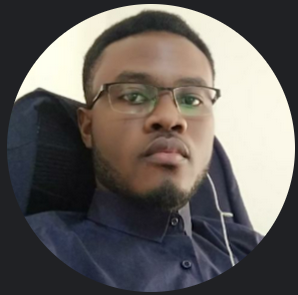
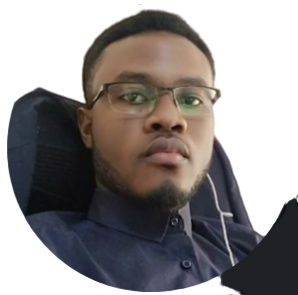
first commit

diff --git a/pages/contact.js b/pages/contact.js
@@ -56,20 +56,24 @@ export default function Contact() {
                                                 <Button
                                                     size="md"
                                                     height="48px"
-                                                    width="200px"
+                                                    width="170px"
                                                     variant="ghost"
-                                                    color="#DCE2FF"
-                                                    _hover={{ border: '2px solid #1C6FEB' }}
+                                                   
+                                                    _hover={{}}
+                                                 
+                                                 
                                                     leftIcon={<MdPhone color="#1970F1" size="20px" />}>
                                                    +225 27 22 23 77 89
                                                 </Button>
                                                 <Button
                                                     size="md"
                                                     height="48px"
-                                                    width="200px"
-                                                    variant="ghost"
+                                                    width="250px"
+                                                    variant="gost"
                                                     color="#DCE2FF"
-                                                    _hover={{ border: '2px solid #1C6FEB' }}
+                                                    _hover={{}}
+                                                    
+                                                 
                                                     leftIcon={<MdEmail color="#1970F1" size="20px" />}>
                                                     lauria.guenaman@rschain.net
                                                 </Button>
@@ -79,7 +83,7 @@ export default function Contact() {
                                                     width="200px"
                                                     variant="ghost"
                                                     color="#DCE2FF"
-                                                    _hover={{ border: '2px solid #1C6FEB' }}
+                                                    _hover={{}}
                                                     leftIcon={<MdLocationOn color="#1970F1" size="20px" />}>
                                                     Angré, carrefour prière, Abidjan
                                                 </Button>
@@ -92,7 +96,9 @@ export default function Contact() {
                                             alignItems="flex-start">
                                             <IconButton
                                                 aria-label="facebook"
-                                                variant="ghost"
+                                                variant="outline"
+                                                as={'a'}
+                                                href="https://www.facebook.com/Rschain-104533535649455/"
                                                 size="lg"
                                                 isRound={true}
                                                 _hover={{ bg: '#0D74FF' }}
@@ -100,7 +106,9 @@ export default function Contact() {
                                             />
                                             <IconButton
                                                 aria-label="github"
-                                                variant="ghost"
+                                                variant="outline"
+                                                as={'a'}
+                                                href="https://github.com/RSCHAIN/"
                                                 size="lg"
                                                 isRound={true}
                                                 _hover={{ bg: '#0D74FF' }}
@@ -108,7 +116,9 @@ export default function Contact() {
                                             />
                                             <IconButton
                                                 aria-label="linkedin"
-                                                variant="ghost"
+                                                variant="outline"
+                                                as={'a'}
+                                                href="https://www.linkedin.com/company/86048991/admin/"
                                                 size="lg"
                                                 isRound={true}
                                                 _hover={{ bg: '#0D74FF' }}

diff --git a/pages/footer.js b/pages/footer.js
@@ -72,10 +72,10 @@ export default function Footer() {
                                 © 2022 Rschain. All rights reserved
                             </Text>
                             <Stack direction={'row'} spacing={6}>
-                                <SocialButton label={'Facebook'} href={'#'}>
+                                <SocialButton label={'Facebook'}  href={"https://www.facebook.com/Rschain-104533535649455/"}>
                                     <FaFacebook/>
                                 </SocialButton>
-                                <SocialButton label={'linkedin'} href={'#'}>
+                                <SocialButton label={'linkedin'} href={'https://www.linkedin.com/company/86048991/admin/'}>
                                     <FaLinkedin />
                                 </SocialButton>
                                

diff --git a/pages/fistpagecontent/team.js b/pages/fistpagecontent/team.js
@@ -24,7 +24,7 @@ const Avatars = [
 
   },
   {
-    src: 'josias.png',
+    src: 'lauria.png',
     name: "Lauria Guenaman",
     title: 'Représentante',
 
